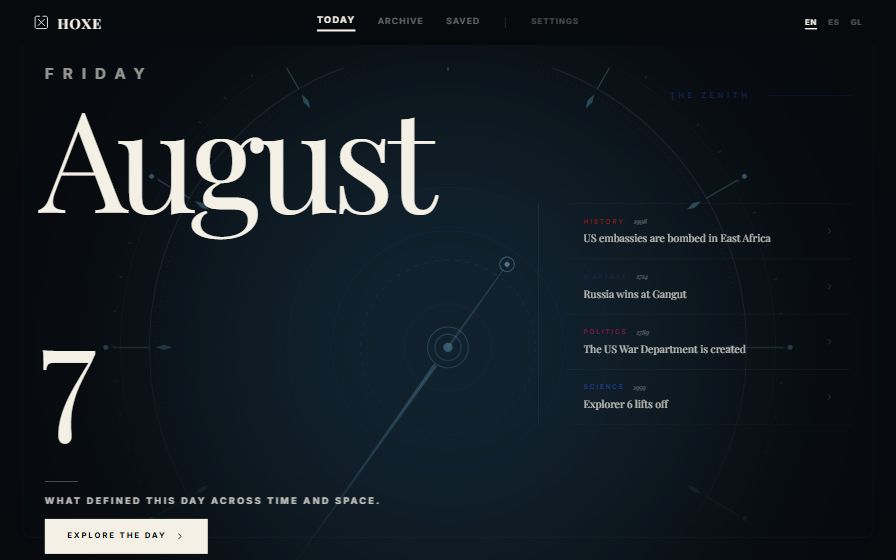
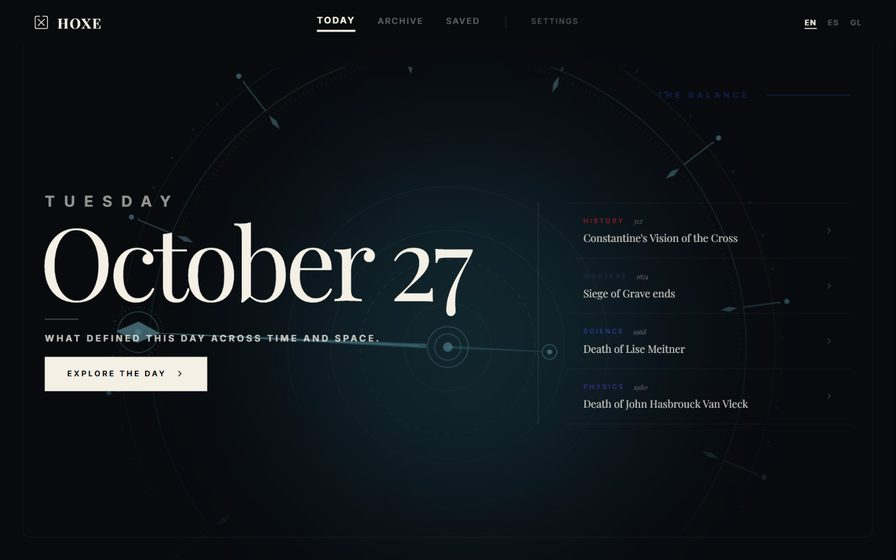
content(projects): a fuller HOXE card and a fresh poster
The card now says what HOXE does and how each entry is made, in all
three languages. The poster is retaken from the live site, with the
date on one line.

Claude-Session: https://claude.ai/code/session_01GY2ffomVAhMAsLPpkZBHZG

diff --git a/src/data/projects.ts b/src/data/projects.ts
@@ -204,9 +204,9 @@ export const projects: Project[] = [
         },
         year: "2025",
         blurb: {
-            en: "HOXE is a polished, editorial historical timeline. It lets you relive the exact events that shaped today, across history and across space.",
-            es: "HOXE es una línea del tiempo histórica de acabado editorial. Permite revivir los hechos exactos que dieron forma al día de hoy, a lo largo de la historia y del espacio.",
-            gl: "HOXE é unha liña do tempo histórica de acabado editorial. Permite revivir os feitos exactos que deron forma ao día de hoxe, ao longo da historia e do espazo.",
+            en: "A daily briefing on the day you are living. Open it and you get what happened on this exact date, across history and across space, written the way an editor would write it and not the way a database prints it. Every entry is checked by hand, dated properly, given an image that truly matches it and paired with the music that was playing that week. A list of terms that must never appear before their time stops anachronisms before anything goes in. It reads in English, Spanish and Galician, keeps an archive and the days you save, and runs on the web and as an Android app.",
+            es: "Un resumen diario del día que estás viviendo. Al abrirlo encuentras lo que pasó en esta misma fecha, a lo largo de la historia y del espacio, escrito como lo escribiría un editor y no como lo imprime una base de datos. Cada entrada se revisa a mano, se data con cuidado, lleva una imagen que de verdad le corresponde y la música que sonaba esa semana. Una lista de términos que nunca pueden aparecer antes de su época frena los anacronismos antes de que entren. Se lee en inglés, castellano y gallego, guarda un archivo y los días que marcas, y funciona en la web y como app para Android.",
+            gl: "Un resumo diario do día que estás a vivir. Ao abrilo atopas o que pasou nesta mesma data, ao longo da historia e do espazo, escrito como o escribiría un editor e non como o imprime unha base de datos. Cada entrada revísase a man, dátase con coidado, leva unha imaxe que de verdade lle corresponde e a música que soaba esa semana. Unha lista de termos que nunca poden aparecer antes da súa época frea os anacronismos antes de que entren. Lese en galego, castelán e inglés, garda un arquivo e os días que marcas, e funciona na web e como app para Android.",
         },
         accent: "#d8b878",
         logo: "hoxe",
